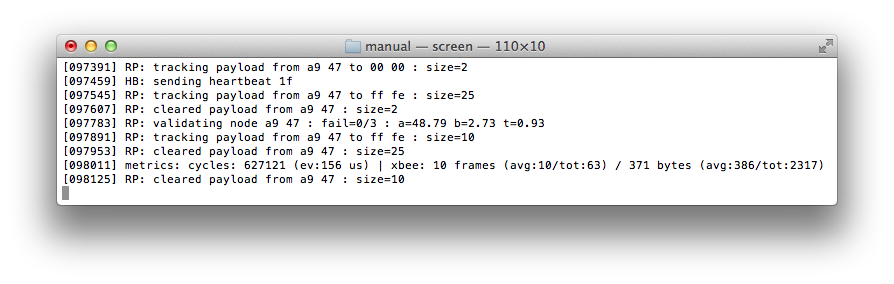
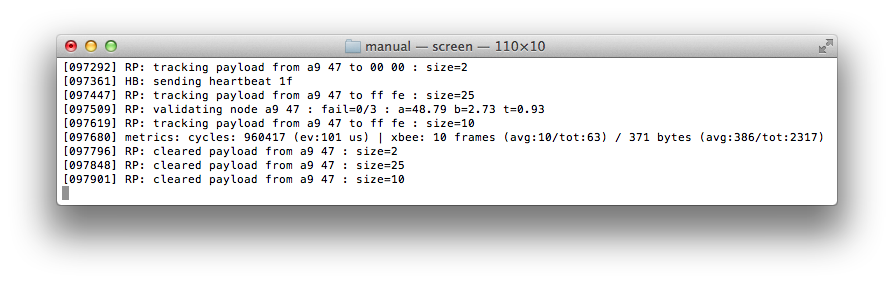
included correct screenshot of improved receiving

Changed region(s): [[0.0906, 0.3662, 0.9362, 0.6479], [0.0906, 0.2254, 0.1208, 0.3944]]

diff --git a/README.md b/README.md
@@ -1162,7 +1162,7 @@ Redesigning the invocations of `xbee_receive()` was done using a pattern already
   }
 ```
 
-The results are okay, but not yet of the same order as the nesC results...
+The results are okay, but not yet of the same order as the nesC results from 156&mu;s we're down to 101&mu;s:
 
 <p align="center">
 <img src="media/manual-receive100ms.png">
